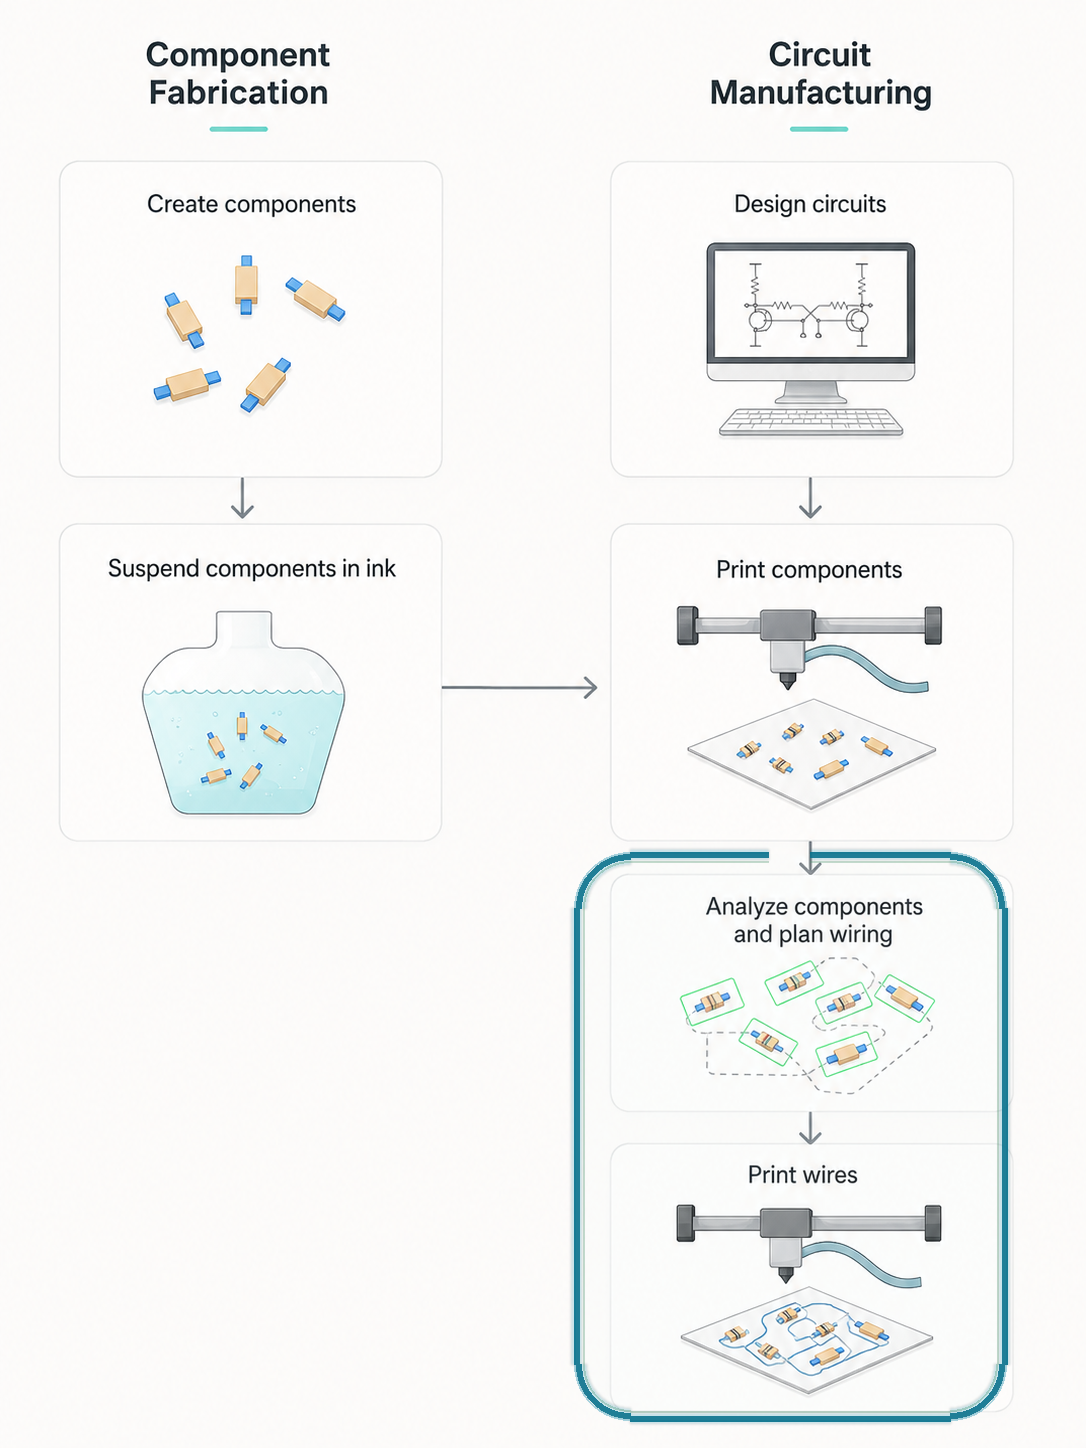
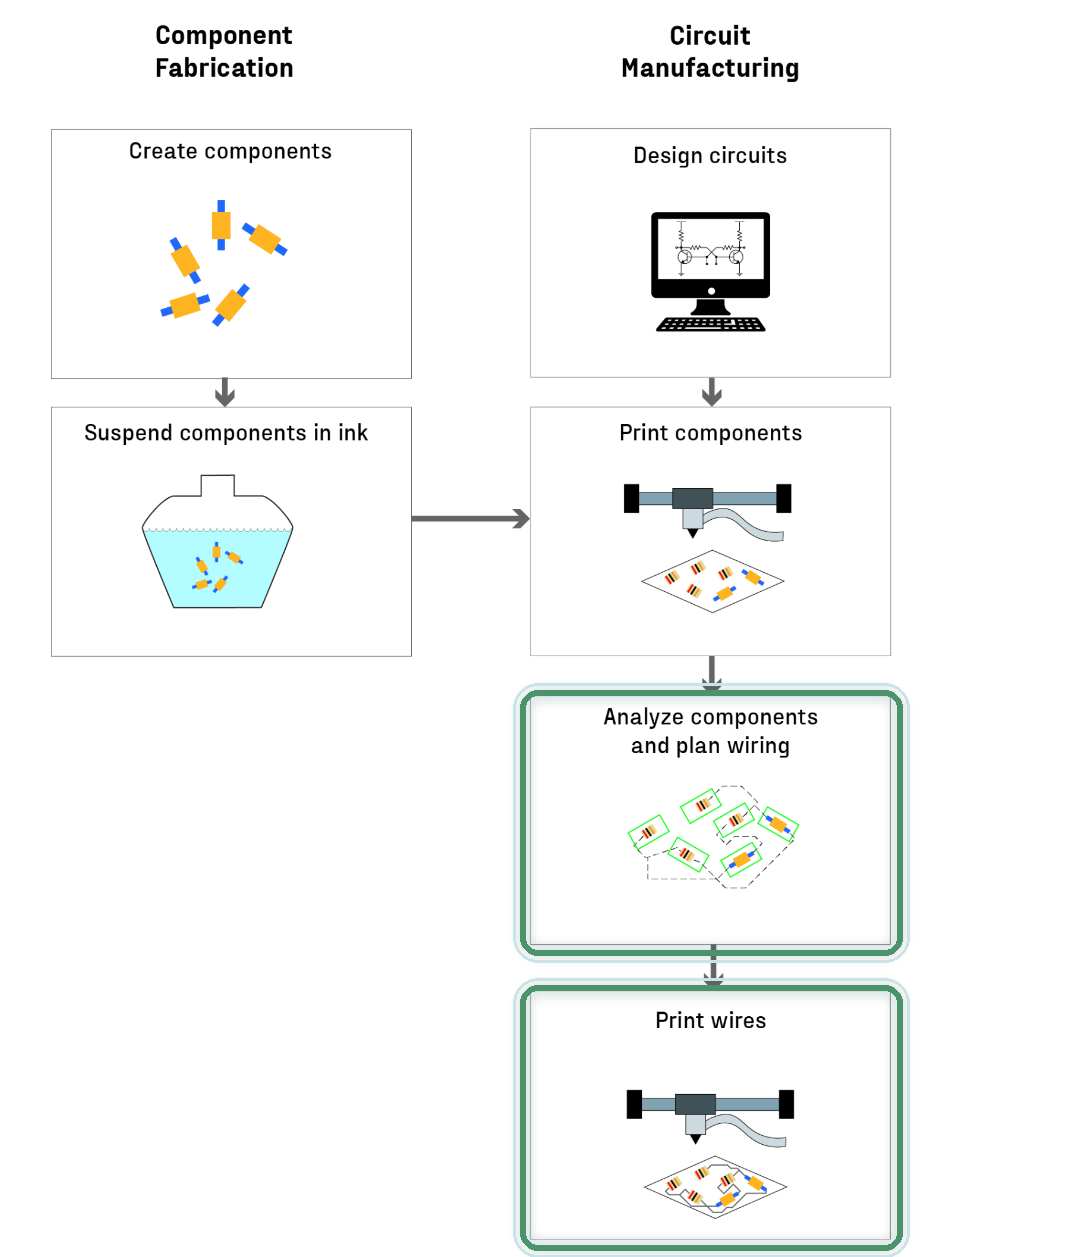
1

diff --git a/assets/css/style.css b/assets/css/style.css
@@ -1234,3 +1234,116 @@ body {
     grid-template-columns: 1fr;
   }
 }
+
+
+/* === Projects page tightening + compact supporting proof + roadmap rectangle update === */
+.projects-page .page-hero {
+  display: none !important;
+  height: 0 !important;
+  min-height: 0 !important;
+  padding: 0 !important;
+  margin: 0 !important;
+  border: 0 !important;
+}
+
+.projects-page .page-content {
+  padding-top: clamp(76px, 6vw, 86px) !important;
+}
+
+.projects-page .portfolio-grid.projects-library {
+  margin-top: 0 !important;
+}
+
+.supporting-proof-band {
+  margin: 28px 0 0 !important;
+  padding: 18px 0 0 !important;
+  border-top: 1px solid rgba(9,51,56,.08) !important;
+}
+
+.supporting-proof-header {
+  display: flex;
+  align-items: baseline;
+  justify-content: space-between;
+  gap: 18px;
+  margin-bottom: 12px;
+  color: var(--muted);
+  font-size: .86rem;
+  line-height: 1.45;
+}
+
+.supporting-proof-header strong {
+  color: var(--ink);
+  font-size: .96rem;
+  letter-spacing: -.025em;
+}
+
+.supporting-proof-header span {
+  max-width: 520px;
+  text-align: right;
+}
+
+.supporting-proof-list {
+  display: grid;
+  grid-template-columns: repeat(4, minmax(0, 1fr));
+  gap: 10px;
+}
+
+.supporting-proof-item {
+  display: grid;
+  gap: 4px;
+  min-height: 0;
+  padding: 12px 13px;
+  border: 1px solid rgba(9,51,56,.085);
+  border-radius: 16px;
+  background: rgba(255,255,255,.72);
+  color: var(--graphite);
+  box-shadow: 0 8px 22px rgba(28,84,91,.04);
+  transition: transform 150ms ease, border-color 150ms ease, background 150ms ease, box-shadow 150ms ease;
+}
+
+.supporting-proof-item:hover {
+  transform: translateY(-2px);
+  border-color: rgba(13,142,177,.20);
+  background: rgba(255,255,255,.94);
+  box-shadow: 0 12px 28px rgba(28,84,91,.07);
+}
+
+.supporting-proof-item strong {
+  color: var(--ink);
+  font-size: .88rem;
+  line-height: 1.15;
+  letter-spacing: -.025em;
+}
+
+.supporting-proof-item span {
+  color: var(--muted);
+  font-family: var(--mono);
+  font-size: .58rem;
+  font-weight: 720;
+  line-height: 1.35;
+  letter-spacing: .055em;
+  text-transform: uppercase;
+}
+
+@media (max-width: 980px) {
+  .supporting-proof-list {
+    grid-template-columns: repeat(2, minmax(0, 1fr));
+  }
+  .supporting-proof-header {
+    display: grid;
+    gap: 3px;
+  }
+  .supporting-proof-header span {
+    max-width: none;
+    text-align: left;
+  }
+}
+
+@media (max-width: 640px) {
+  .projects-page .page-content {
+    padding-top: 76px !important;
+  }
+  .supporting-proof-list {
+    grid-template-columns: 1fr;
+  }
+}

diff --git a/projects/index.md b/projects/index.md
@@ -70,38 +70,32 @@ body_class: projects-page
 
 
 <section class="supporting-proof-band" aria-label="Additional technical work and operations proof">
-  <div class="section-note compact-section-note">
-    <strong>Supporting proof</strong> — earlier research, operations, and strategy work kept intentionally compact so the four flagship engineering case files stay dominant.
+  <div class="supporting-proof-header">
+    <strong>Additional technical work</strong>
+    <span>Compact context beyond the four flagship case files.</span>
   </div>
 
-  <div class="mini-case-grid">
-    <a class="mini-case-card" href="{{ '/projects/thin-film-semiconductor-research/' | relative_url }}">
-      <span class="mini-meta">Semiconductors · Thin Films</span>
+  <div class="supporting-proof-list">
+    <a class="supporting-proof-item" href="{{ '/projects/thin-film-semiconductor-research/' | relative_url }}">
       <strong>Thin Film Semiconductor Growth</strong>
-      <p>MBE deposition and characterization of Se/In thin films; process-parameter logic, band-gap relevance, and materials evidence.</p>
-      <em>MBE · SEM · XRD · XPS · Raman</em>
+      <span>MBE · SEM/XRD/XPS · band-gap materials</span>
     </a>
 
-    <a class="mini-case-card" href="{{ '/projects/dna-pcr-flexibility/' | relative_url }}">
-      <span class="mini-meta">Molecular Biology · Assays</span>
-      <strong>DNA/PCR Flexibility Assay Development</strong>
-      <p>PCR-based experimental design for measuring very short-length DNA flexibility; precision workflow execution and troubleshooting.</p>
-      <em>PCR · DNA assays · experimental design</em>
+    <a class="supporting-proof-item" href="{{ '/projects/dna-pcr-flexibility/' | relative_url }}">
+      <strong>DNA/PCR Assay Development</strong>
+      <span>PCR · experimental design · troubleshooting</span>
     </a>
 
-    <a class="mini-case-card" href="{{ '/projects/operations-quality-systems/' | relative_url }}">
-      <span class="mini-meta">Operations · Quality · Throughput</span>
+    <a class="supporting-proof-item" href="{{ '/projects/operations-quality-systems/' | relative_url }}">
       <strong>Operations &amp; Quality Systems</strong>
-      <p>High-volume service operations translated into standard work, bottleneck control, CCP logs, corrective actions, and training routines.</p>
-      <em>Throughput · QC logs · PM routines</em>
+      <span>Throughput · QC logs · corrective actions</span>
     </a>
 
-    <a class="mini-case-card" href="{{ '/projects/consult-your-community/' | relative_url }}">
-      <span class="mini-meta">Consulting · Strategy</span>
+    <a class="supporting-proof-item" href="{{ '/projects/consult-your-community/' | relative_url }}">
       <strong>Nonprofit Growth Strategy</strong>
-      <p>Client discovery, market/communication analysis, and practical recommendations for a local Atlanta nonprofit’s execution capacity.</p>
-      <em>Client discovery · strategy · delivery</em>
+      <span>Discovery · communications · execution planning</span>
     </a>
   </div>
 </section>
+
 
